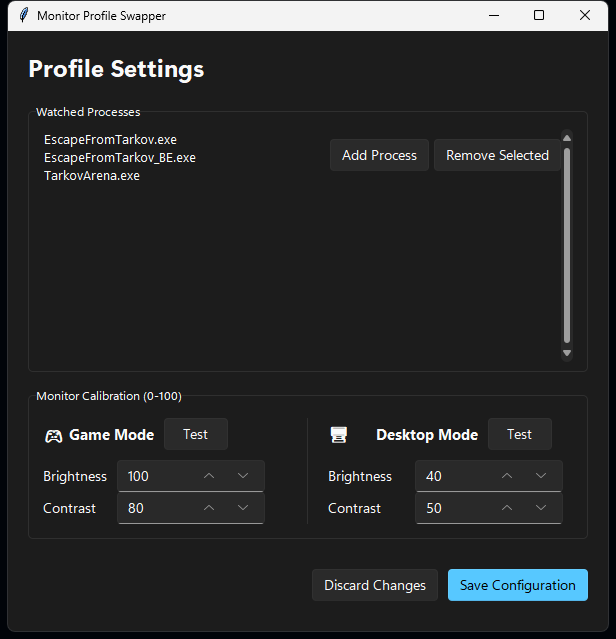
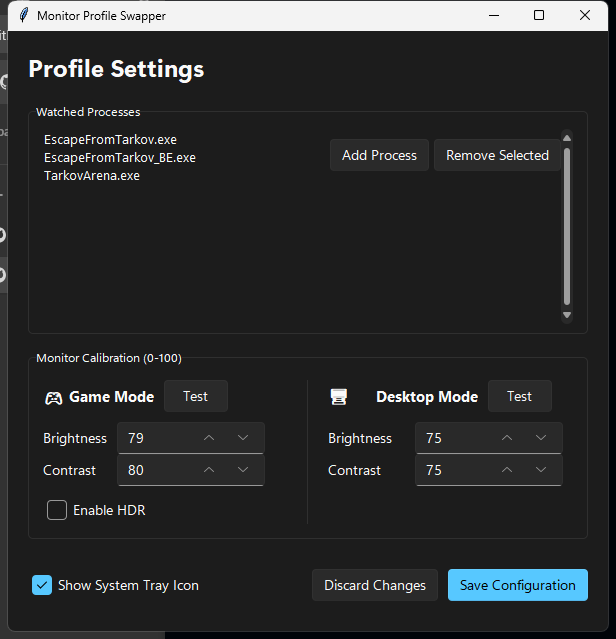
Docs: Update README with new features (HDR, Auto-update, Tray) and latest screenshot

diff --git a/README.md b/README.md
@@ -4,9 +4,9 @@
 ![Platform](https://img.shields.io/badge/Platform-Windows-lightgrey?style=for-the-badge&logo=windows)
 ![License](https://img.shields.io/badge/License-MIT-green?style=for-the-badge)
 
-**Automate your monitor's brightness and contrast settings based on the game you're playing.**
+**Automate your monitor's brightness, contrast, and HDR settings based on the game you're playing.**
 
-Monitor Profile Swapper is a lightweight utility that automatically switches your monitor's display settings (Brightness & Contrast) when specific applications (like games) are launched. When you close the game, it instantly reverts to your desktop preferences.
+Monitor Profile Swapper is a lightweight utility that automatically switches your monitor's display settings when specific applications (like games) are launched. When you close the game, it instantly reverts to your desktop preferences.
 
 Perfect for games like *Escape from Tarkov* where higher visibility is crucial, without blinding yourself on your desktop.
 
@@ -14,7 +14,7 @@ Perfect for games like *Escape from Tarkov* where higher visibility is crucial, 
 
 ## 📸 Preview
 
-**Configuration GUI**
+**Modern Windows 11 GUI**
 ![Settings Preview](docs/gui_preview.png)
 
 ---
@@ -23,9 +23,11 @@ Perfect for games like *Escape from Tarkov* where higher visibility is crucial, 
 
 *   **Automatic Detection**: Watches for specific process names (e.g., `EscapeFromTarkov.exe`).
 *   **Dual Profiles**:
-    *   **Game Mode**: Boost brightness/contrast for competitive advantage.
-    *   **Desktop Mode**: Comfortable settings for browsing and work.
-*   **User Friendly GUI**: Easily add/remove games and tweak settings without editing code.
+    *   **Game Mode**: Boost brightness/contrast and optionally enable **HDR** for a competitive advantage.
+    *   **Desktop Mode**: Comfortable settings for browsing and work. matched to your system theme.
+*   **HDR Toggling**: Automatically enables Windows HDR when entering game mode and disables it on exit.
+*   **System Tray Control**: Background monitoring with a handy tray icon for quick access to settings and manual update checks.
+*   **Auto-Updating**: Stay up to date automatically. The app checks for new versions on launch and can be updated with a single click.
 *   **DDC/CI Support**: Communicates directly with your monitor hardware.
 *   **Portable**: Runs as a standalone executable (no installation required).
 
@@ -35,11 +37,10 @@ Perfect for games like *Escape from Tarkov* where higher visibility is crucial, 
 
 ### Option 1: Download the Release
 1.  Download the latest `.zip` from the [Releases](../../releases) page.
-2.  Extract the folder to a location of your choice.
-3.  Open the folder.
+2.  Extract the folder to a location like `Documents\MonitorSwapper`.
+3.  Run `MonitorSwapper.exe`.
 
 ### Option 2: Build from Source
-If you prefer to run from source or build it yourself:
 ```bash
 git clone https://github.com/dlanz1/monitor-profile-swapper.git
 cd monitor-profile-swapper
@@ -52,23 +53,18 @@ python build.py
 ## 🎮 How to Use
 
 1.  **Configure Settings**:
-    Run `Settings.exe`.
-    *   **Game Processes**: Add the executable names of the games you want to detect (e.g., `game.exe`).
-    *   **Monitor Settings**: Enter values (0-100) for Brightness and Contrast for both modes.
-    *   Click **Save Settings**.
+    Click the tray icon or run `Settings.exe`.
+    *   **Watched Processes**: Add the executable names of the games you want to detect.
+    *   **Monitor Calibration**: Set Brightness and Contrast (0-100).
+    *   **HDR**: Check "Enable HDR" if you want the tool to toggle Windows HDR for you.
+    *   Click **Save Configuration**.
 
-2.  **Start Monitoring**:
-    Run `MonitorSwapper.exe`.
-    *   Keep this window open (or minimize it).
-    *   The tool will scan for your games every few seconds.
-    *   When a game is found, your monitor will visibly update.
+2.  **Background Monitoring**:
+    *   `MonitorSwapper.exe` runs silently in your system tray.
+    *   Right-click the icon to manually **Check for updates** or exit the app.
+    *   When a game is detected, your monitor settings will update visibly.
 
 ---
-
-## ⚠ Requirements
-
-*   **DDC/CI Enabled Monitor**: Ensure "DDC/CI" is turned **ON** in your physical monitor's OSD menu.
-*   **Windows OS**: Currently supports Windows due to DDC/CI library dependencies.
 
 ## 🖥 Hardware Compatibility
 
@@ -76,44 +72,9 @@ This tool relies on the **DDC/CI** standard to communicate with your display.
 
 *   ✅ **Supported**: Most modern external PC monitors (connected via DisplayPort, HDMI, or DVI).
 *   ❌ **Likely Unsupported**:
-    *   **Laptop Screens**: Internal displays usually use different control methods and are not supported by this tool.
+    *   **Laptop Screens**: Internal displays usually use different control methods.
     *   **TVs**: Many televisions do not support DDC/CI over HDMI.
     *   **DisplayLink Docks**: Some USB docking stations may block DDC/CI signals.
-
-If the tool runs but settings don't change, check your cable connection and ensure DDC/CI is enabled in your monitor's on-screen menu.
-
----
-
-## 🛠 Configuration
-
-Your settings are stored in `config.json`. You can edit this file manually if you prefer:
-
-```json
-{
-    "game_processes": [
-        "EscapeFromTarkov.exe",
-        "TarkovArena.exe"
-    ],
-    "game_mode": {
-        "brightness": 100,
-        "contrast": 80
-    },
-    "desktop_mode": {
-        "brightness": 40,
-        "contrast": 50
-    }
-}
-```
-
----
-
-## 🤝 Contributing
-
-1.  Fork the repository.
-2.  Create your feature branch (`git checkout -b feature/AmazingFeature`).
-3.  Commit your changes (`git commit -m 'Add some AmazingFeature'`).
-4.  Push to the branch (`git push origin feature/AmazingFeature`).
-5.  Open a Pull Request.
 
 ---
 
